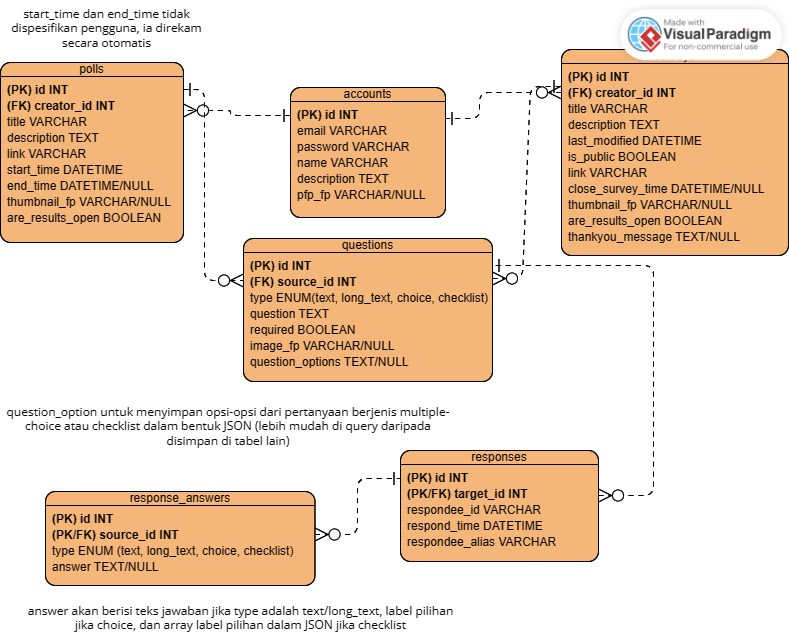
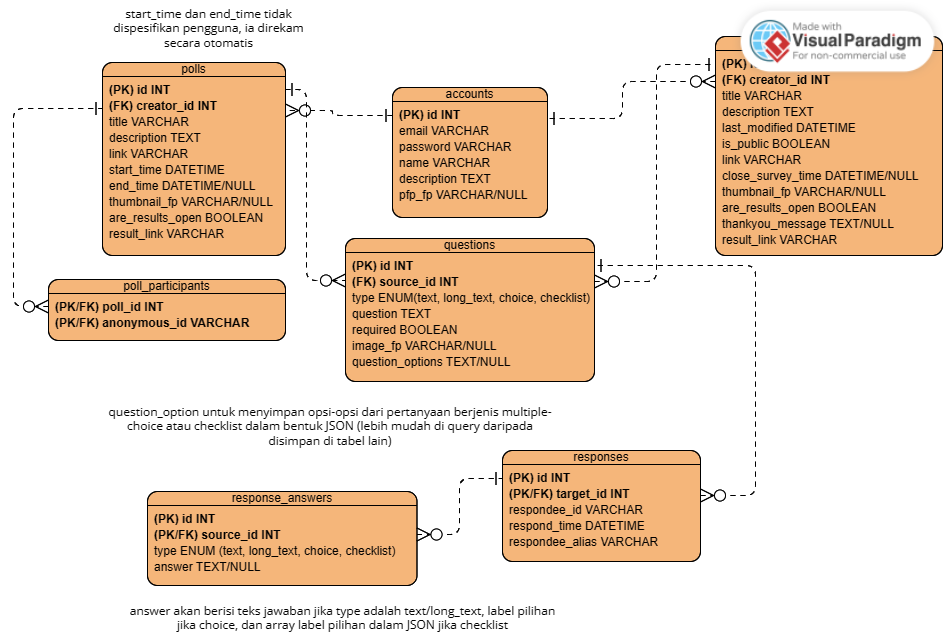
Update backend untuk akomodasi result_link
+ Update estimasi di Sprint Planning

diff --git a/Mockup/Backend.md b/Mockup/Backend.md
@@ -133,7 +133,8 @@ Response:
     - pfp (string)
   - title (string)
   - description (string)
-  - link (string): Invite link
+  - link (string): Link untuk masuk poll
+  - result_link (string): Link untuk melihat hasil poll
   - start_time (string)
   - end_time (string|null): Kapan poll dihentikan. Jika poll masih berjalan maka nilai ini adalah null.
   - thumbnail (string): URL ke gambar dari poll
@@ -182,7 +183,8 @@ Response:
   - description (string)
   - last_modified (string)
   - is_public (boolean)
-  - link (string)
+  - link (string): Link mengakses survey
+  - result_link (string): Link melihat hasil survey
   - close_time (string): Kapan survey terakhir diubah dalam format waktu ISO
   - thumbnail (string)
   - are_results_open (boolean): Apakah orang lain dapat mengakses hasil survey setelah mengisi survey tanpa diberikan link?
@@ -213,7 +215,8 @@ Cookie:
 
 Response:
 - 200 OK
-    - creator
+  - id (number)
+  - creator
     - id (number)
     - email (string)
     - name (string)
@@ -221,7 +224,8 @@ Response:
     - pfp (string)
   - title (string)
   - description (string)
-  - link (string)
+  - link (string?): Hanya ada jika user_id merupakan id creator
+  - result_link (string?): Hanya ada jika user_id merupakan id creator
   - start_time (string)
   - end_time (string)
   - thumbnail (string)
@@ -299,7 +303,29 @@ Cookie:
 Response:
 
 - 200 OK: Survey ditemukan
-  (copas format response survey)
+  - id (number)
+  - creator
+    - id (number)
+    - email (string)
+    - name (string)
+    - description (string)
+    - pfp (string)
+  - title (string)
+  - description (string)
+  - last_modified (string)
+  - is_public (boolean)
+  - link (string?): Hanya ada jika user_id merupakan id creator
+  - result_link (string?): Hanya ada jika user_id merupakan id creator
+  - close_time (string): Kapan survey terakhir diubah dalam format waktu ISO
+  - thumbnail (string)
+  - are_results_open (boolean): Apakah orang lain dapat mengakses hasil survey setelah mengisi survey tanpa diberikan link?
+  - questions[]
+    - id (number)
+    - type (string)
+    - question (string)
+    - required (boolean)
+    - image? (string)
+    - options (string[]?)
 - 404 Not Found: Survey tidak ditemukan
   - message: "No surveys found with that ID"
 - 401 Unauthorized: Survey tidak diberikan akses ke publik dan user_id tidak sesuai dengan id pemilik
@@ -335,7 +361,7 @@ Response:
 - 401 Unauthorized: Penjawab anonim belum masuk ke dalam poll
   - message: "You haven't joined into the poll yet"
 
-Set Cookie jika tidak ada anonymous_id:
+Set Cookie (JIKA tidak ada anonymous_id):
 
 - anonymous_id (string)
 
@@ -452,6 +478,12 @@ Cookie:
 - anonymous_id
 
 Response:
+- 200 OK
+  - id (number)
+  - type (string)
+  - question (string)
+  - respondee_alias (string)
+  - answer (string|string[])
 
 - 403 Forbidden: Poll sudah ditutup
   - message: "The poll has already ended."
@@ -540,6 +572,12 @@ Response:
 - 200 OK: Otorisasi valid
   - title (string)
   - description (string)
+  - creator
+    - id (number)
+    - email (string)
+    - name (string)
+    - description (string)
+    - pfp (string)
   - start_time (string)
   - end_time (string)
   - thumbnail (string)

diff --git a/Dokumentasi/Sprint_Planning.md b/Dokumentasi/Sprint_Planning.md
@@ -126,7 +126,7 @@
 - Memberikan akses kepada pembuat survey/poll untuk share link untuk membagikan hasil [2]
     - Tombol share untuk membuka popup
     - Pengaturan dalam popup seperti mengatur apakah partisipan poll/survey boleh melihat hasil, dan link untuk membagikan hasil
-- Update backend untuk menyimpan link hasil [2]
+- Update backend untuk menyimpan link hasil [1]
     - Update skema database untuk menyimpan link hasil dari survey/poll
     - Update endpoint agar mengakomodasikan link hasil
 
@@ -139,6 +139,6 @@
 
 7. dan sebagainya
     - Endpoint untuk mengambil tampilan/*frontend* dari aplikasi [1]
-    - Kontrol akses informasi dari endpoint, contohnya ketika mengambil info survey, pemilik akan mendapat semua info tapi penjawab tidak akan mendapat link dan link hasil karena bukan untuk dilihat mereka [2]
+    - Kontrol akses informasi dari endpoint, contohnya ketika mengambil info survey, pemilik akan mendapat semua info tapi penjawab tidak akan mendapat link dan link hasil karena bukan untuk dilihat mereka [1]
 
-**Total Story Point**: 32
+**Total Story Point**: 30
